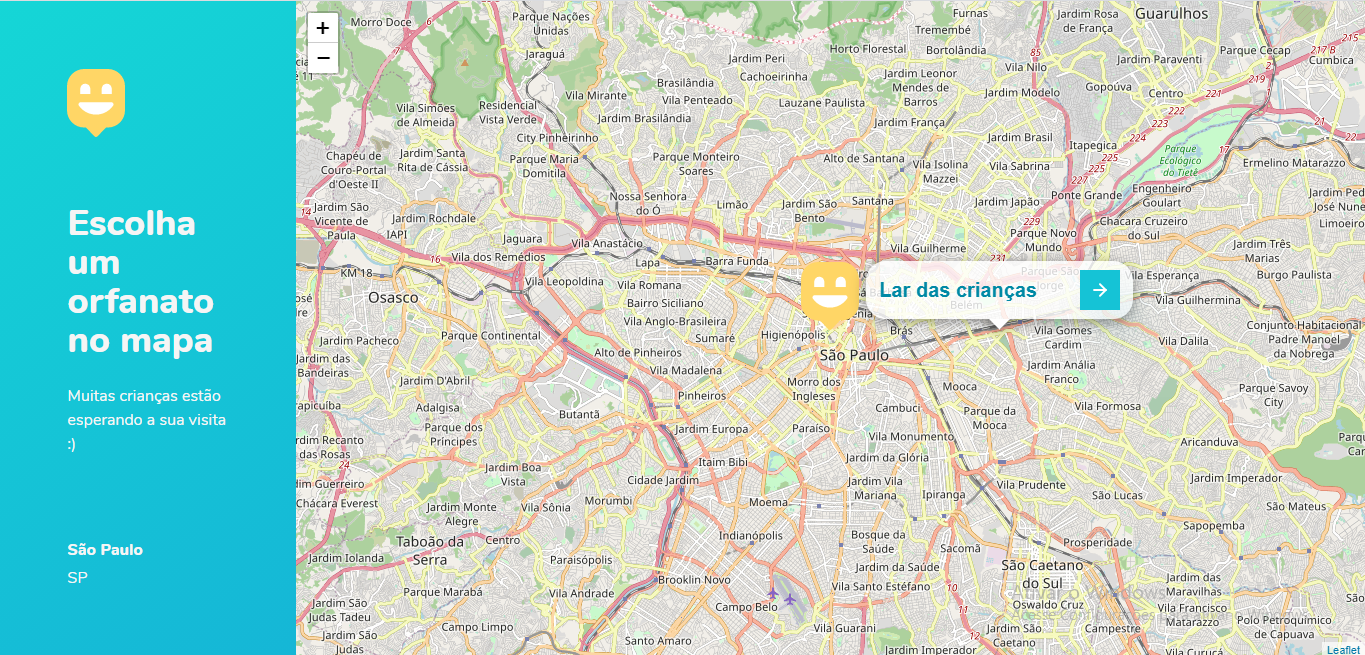
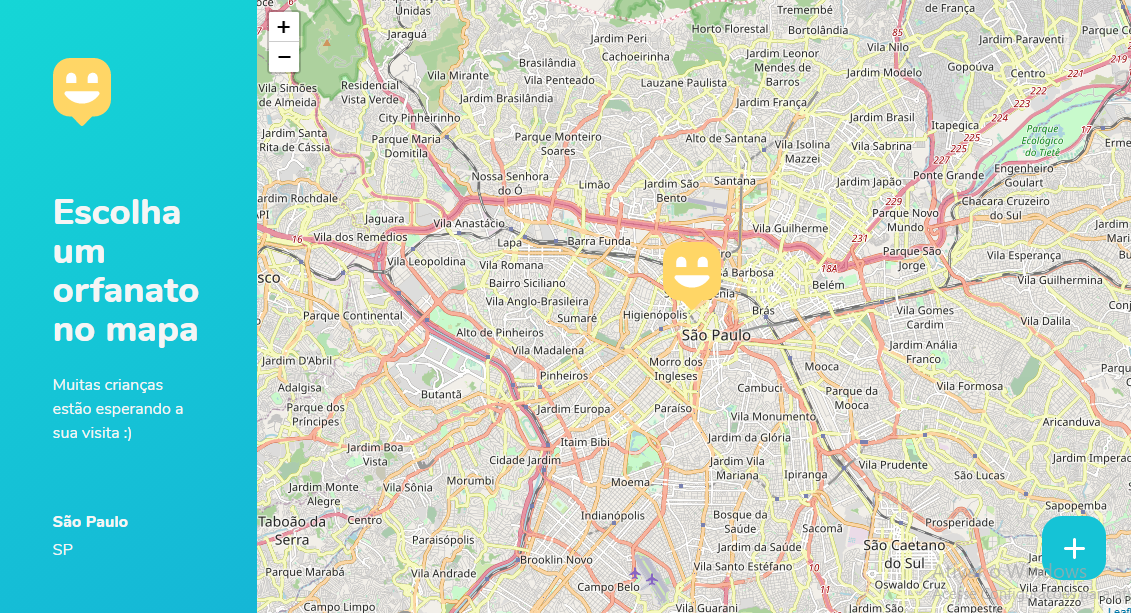
formatando e animando mapa

diff --git a/public/css/orphanages.css b/public/css/orphanages.css
@@ -33,6 +33,7 @@ a.create-orphanage {
     position: absolute;
     right: 4rem;
     bottom: 4rem;
+    z-index: 10;
     width: 6.4rem;
     height: 6.4rem;
     background: #15C3D6;
@@ -51,6 +52,7 @@ a.create-orphanage:hover{
 #mapid { 
     width: 100%;
     height: 100%;
+    animation-delay: 200ms;
 }
 
 .leaflet-popup-content-wrapper {
@@ -60,7 +62,7 @@ a.create-orphanage:hover{
 
 .leaflet-popup-content {
     color: #0089A5;
-    font: 600 1.8rem/1 'Nunito', sans-serif;
+    font: 600 2rem/1 'Nunito', sans-serif;
     margin: 0.8rem 1.2rem;
     display: flex;
     align-items: center;
@@ -85,4 +87,8 @@ a.create-orphanage:hover{
 
 .leaflet-popup-tip{
     display: none;
+}
+
+.leaflet-container {
+    z-index: 5;
 }

diff --git a/public/css/animations.css b/public/css/animations.css
@@ -17,6 +17,14 @@
     }
 }
 
+@keyframes appear {
+    from{
+        opacity: 0;
+    } to {
+        opacity: 1;
+    }
+}
+
 .animate-up{
     animation-name: up;
     animation-duration: 300ms;
@@ -26,4 +34,10 @@
 .animate-right {
     animation-name: right;
     animation-duration: 300ms;
+}
+
+.animate-appear {
+    animation-name: appear;
+    animation-duration: 300ms;
+    animation-fill-mode: backwards;
 }

diff --git a/orphanages.html b/orphanages.html
@@ -30,7 +30,7 @@
             </footer>
         </aside>
 
-        <div id="mapid"></div>
+        <div id="mapid" class="animate-appear"></div>
         <a href="create-orphanage.html" class="create-orphanage" title="Cadastre um orfanato">
             <img src="public/images/plus.svg" alt="Cadastre um orfanato">
         </a>
